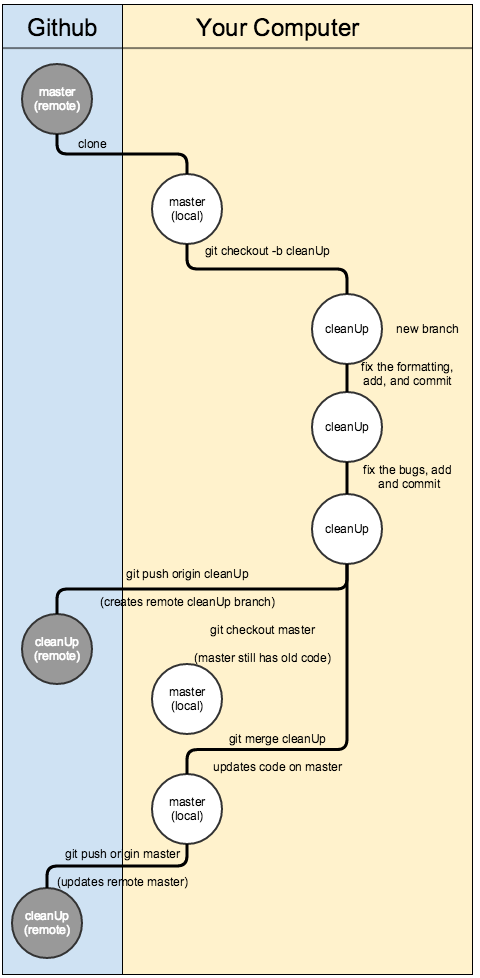
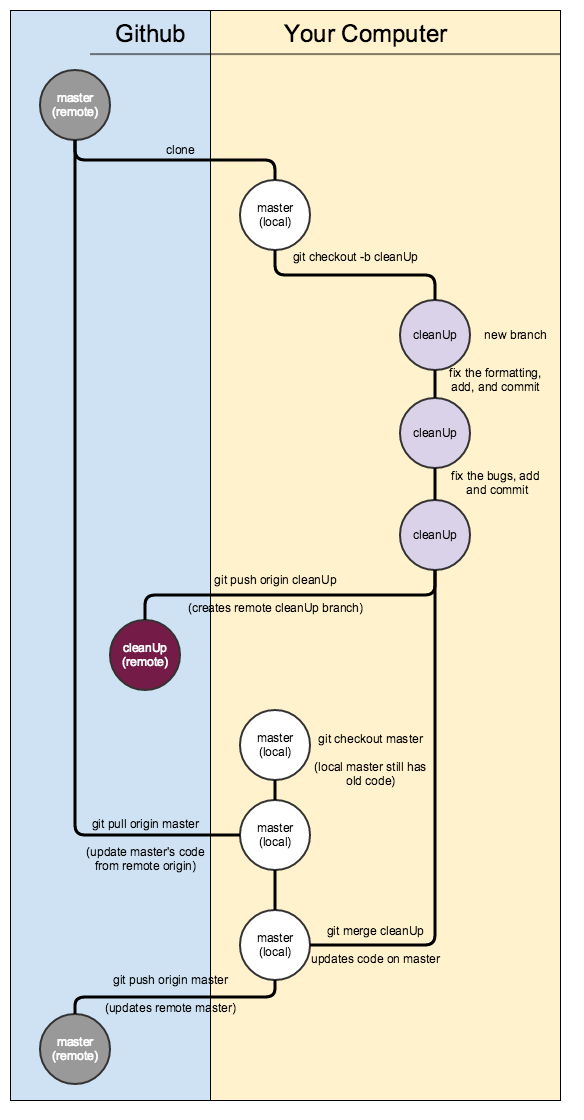
updated readme and branching image

diff --git a/readme.md b/readme.md
@@ -63,7 +63,13 @@ Let's update master:
 git checkout master
 ```
 
-This will move you over to the master branch, but we still need to merge in our updates from 'cleanUp'
+In case any group members have made updates to Master we'll pull from the origin master before merging our code into local master.
+
+```
+git pull origin master
+```
+
+This will update your local master branch with what's on github, but we still need to merge in our updates from 'cleanUp' to make it current.
 
 ```
 git merge cleanUp
